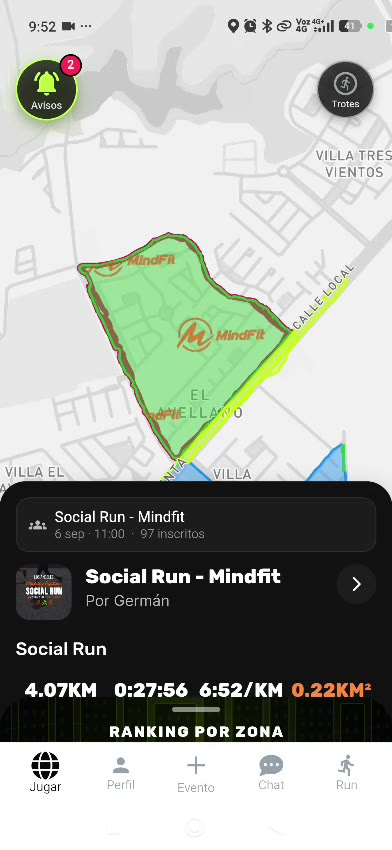
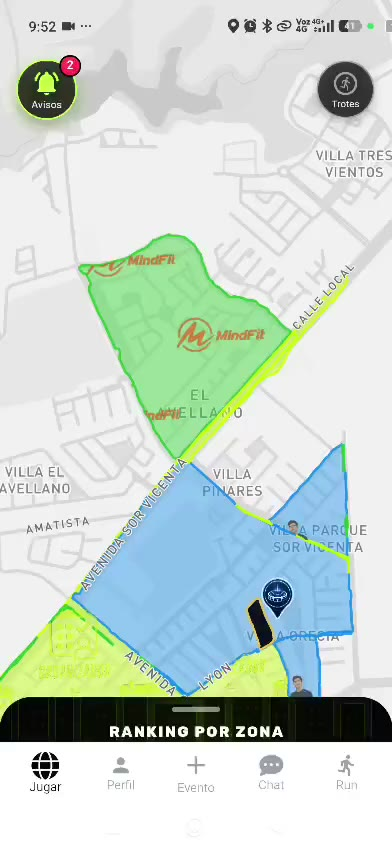
Point to Social Run card when it appears in the scroll video

diff --git a/organizadores/index.html b/organizadores/index.html
@@ -15,7 +15,7 @@
   <meta property="og:url" content="https://kipzone.run/organizadores/">
   <meta property="og:image" content="https://kipzone.run/organizadores/assets/social-run-santiago.jpg">
   <link rel="canonical" href="https://kipzone.run/organizadores/">
-  <link rel="stylesheet" href="style.css?v=20261009-social-run-video">
+  <link rel="stylesheet" href="style.css?v=20261009-social-run-arrow">
   <style id="organizer-heading-sizes">
     .hero .hero-copy h1{font-size:clamp(3rem,5.8vw,5.8rem);line-height:.94}
     .priority-events h2{max-width:1050px;font-size:clamp(2.1rem,4vw,4rem);line-height:.98}
@@ -134,12 +134,15 @@
         </div>
         <div class="event-story-device">
           <div class="story-iphone" aria-label="Demostración de KipZone dentro de un iPhone">
+            <svg class="event-story-card-arrow" viewBox="0 0 240 110" fill="none" aria-hidden="true" focusable="false">
+              <path d="M8 12C68 80 137 113 222 43M186 44L222 43L218 79" />
+            </svg>
             <span class="story-iphone-button story-iphone-action" aria-hidden="true"></span>
             <span class="story-iphone-button story-iphone-volume-up" aria-hidden="true"></span>
             <span class="story-iphone-button story-iphone-volume-down" aria-hidden="true"></span>
             <span class="story-iphone-button story-iphone-power" aria-hidden="true"></span>
             <div class="story-iphone-screen">
-              <video class="event-story-video" muted playsinline webkit-playsinline preload="metadata" poster="assets/social-run-territory-poster.jpg" aria-label="Territorio del Social Run MindFit y tarjeta con la información del evento">
+              <video class="event-story-video" muted playsinline webkit-playsinline preload="metadata" poster="assets/social-run-territory-poster.jpg?v=20261009-social-run-arrow" aria-label="Territorio del Social Run MindFit y tarjeta con la información del evento">
                 <source src="assets/social-run-territory.mp4" type="video/mp4">
                 Tu navegador no permite reproducir este video.
               </video>
@@ -228,7 +231,7 @@
   <footer><a class="brand" href="#inicio"><img src="../assets/logo.png" alt="KipZone"></a><div><a href="https://kipzone.run/">Inicio</a><a href="https://kipzone.run/privacy/">Privacidad</a><a href="https://kipzone.run/terms/">Términos</a><a href="https://www.instagram.com/kipzone.run?igsh=MXEydTdmaW8zeGFmaQ==" target="_blank" rel="noreferrer">Instagram</a><a class="footer-link" href="https://wa.me/56936256916?text=Hola%2C%20organizo%20social%20runs%20y%20quiero%20crear%20mi%20evento%20en%20KipZone." target="_blank" rel="noreferrer">WhatsApp</a></div></footer>
   <a class="floating-wa" aria-label="Escribir por WhatsApp" href="https://wa.me/56936256916?text=Hola%2C%20organizo%20social%20runs%20y%20quiero%20crear%20mi%20evento%20en%20KipZone." target="_blank" rel="noreferrer"><svg viewBox="0 0 32 32" aria-hidden="true"><path fill="currentColor" d="M16.04 3C8.86 3 3.02 8.78 3.02 15.9c0 2.27.6 4.49 1.73 6.43L3 28.73l6.58-1.7a13.1 13.1 0 0 0 6.45 1.66h.01c7.17 0 13.02-5.79 13.02-12.9C29.06 8.78 23.22 3 16.04 3Zm0 23.52h-.01a10.9 10.9 0 0 1-5.56-1.51l-.4-.24-3.9 1.01 1.04-3.77-.26-.4a10.7 10.7 0 0 1-1.67-5.72c0-5.94 4.83-10.73 10.77-10.73s10.76 4.8 10.76 10.73c0 5.91-4.83 10.73-10.77 10.73Zm5.9-8.04c-.32-.16-1.91-.94-2.2-1.05-.3-.11-.51-.16-.73.16-.22.32-.84 1.05-1.03 1.27-.19.21-.38.24-.7.08-.33-.16-1.37-.5-2.61-1.61a9.8 9.8 0 0 1-1.8-2.23c-.19-.32-.02-.5.14-.66.15-.14.32-.38.49-.56.16-.19.21-.32.32-.54.11-.21.05-.4-.03-.56-.08-.16-.73-1.75-1-2.4-.26-.63-.53-.55-.73-.56h-.62c-.21 0-.56.08-.86.4-.29.32-1.13 1.1-1.13 2.69s1.16 3.12 1.32 3.34c.16.21 2.28 3.46 5.52 4.85.77.33 1.37.53 1.84.68.77.24 1.48.21 2.03.13.62-.09 1.91-.78 2.18-1.53.27-.75.27-1.4.19-1.53-.08-.14-.29-.22-.62-.38Z"/></svg></a>
 
-  <script src="script.js?v=20261009-social-run-video" defer></script>
+  <script src="script.js?v=20261009-social-run-arrow" defer></script>
   <script src="firebase-events.js?v=20260818-mobile-events" type="module"></script>
 </body>
 </html>

diff --git a/organizadores/style.css b/organizadores/style.css
@@ -167,6 +167,10 @@ body.modal-open{overflow:hidden}.attendee-modal[hidden]{display:none}.attendee-m
 .event-story-progress i{display:block;width:100%;height:100%;background:var(--lime);transform:scaleX(var(--story-progress));transform-origin:left}
 .event-story-caption{margin:0;color:#9ba5a0;font-size:.72rem;text-align:center}
 .event-story-error{margin:0;color:#ffb4a4;font-size:.8rem;text-align:center}
+.event-story-card-arrow{position:absolute;z-index:4;right:calc(100% - 9px);top:63%;width:clamp(70px,18vw,230px);height:auto;overflow:visible;pointer-events:none;opacity:0;transform:translate(-10px,8px);transition:opacity .18s ease,transform .18s ease;color:var(--lime);filter:drop-shadow(0 0 10px rgba(143,227,29,.3))}
+.event-story-card-arrow path{stroke:currentColor;stroke-width:5;stroke-linecap:round;stroke-linejoin:round}
+.event-story-card-visible .event-story-card-arrow{opacity:1;transform:translate(0,0)}
+@media(max-width:560px){.event-story-card-arrow{width:min(90px,calc((100vw - 240px)/2 - 12px));right:calc(100% - 6px);top:64%}}
 @media(max-width:900px){.event-story-sticky{top:68px;height:calc(100svh - 68px);gap:28px}.event-story-copy h2{font-size:clamp(2.7rem,5.8vw,4.2rem)}}
 @media(max-width:560px){.event-story-sticky{grid-template-columns:1fr;grid-template-rows:auto minmax(0,1fr);gap:14px;width:calc(100% - 28px);padding:16px 0}.event-story-copy{text-align:center}.event-story-copy .eyebrow{margin-bottom:8px;font-size:.62rem}.event-story-copy h2{font-size:clamp(1.9rem,8vw,2.7rem)}.event-story-copy>p:not(.eyebrow){margin:10px auto 0;font-size:.86rem;line-height:1.4}.event-story-hint{margin-top:8px;font-size:.66rem}.event-story-device{gap:10px}.story-iphone{width:min(240px,calc((100svh - 310px)*.477));padding:6px}.event-story-caption{font-size:.62rem}.story-iphone-status{font-size:8px}}
 @media(max-height:520px) and (min-width:561px){.event-story-copy h2{font-size:2.4rem}.event-story-copy>p:not(.eyebrow){margin-top:12px;font-size:.9rem}.event-story-hint{margin-top:14px}.event-story-sticky{padding:12px 0}.event-story-device{gap:8px}.story-iphone{width:calc((100svh - 145px)*.477)}}

diff --git a/organizadores/script.js b/organizadores/script.js
@@ -125,6 +125,14 @@ const eventStory = document.querySelector('.event-story');
 const eventStoryVideo = eventStory?.querySelector('video');
 let eventStoryFrame = 0;
 let eventStoryTarget = 0;
+// The card starts rising at 2.85 s in this recording. Follow the displayed
+// frame, so the pointer also disappears when scrolling back before the reveal.
+const syncEventStoryCard = () => {
+  eventStory?.classList.toggle('event-story-card-visible', Boolean(
+    eventStoryVideo && !eventStoryVideo.error &&
+    eventStoryVideo.readyState >= 2 && eventStoryVideo.currentTime >= 2.85
+  ));
+};
 const seekEventStory = () => {
   if (!eventStoryVideo || eventStoryVideo.seeking ||
       !Number.isFinite(eventStoryVideo.duration) || eventStoryVideo.readyState < 1) return;
@@ -154,10 +162,14 @@ const requestEventStorySync = () => {
 if (eventStoryVideo) {
   eventStoryVideo.addEventListener('loadedmetadata', requestEventStorySync);
   eventStoryVideo.addEventListener('loadeddata', requestEventStorySync);
+  eventStoryVideo.addEventListener('loadeddata', syncEventStoryCard);
+  eventStoryVideo.addEventListener('timeupdate', syncEventStoryCard);
   eventStoryVideo.addEventListener('seeked', () => {
+    syncEventStoryCard();
     if (!reducedMotion.matches) seekEventStory();
   });
   eventStoryVideo.addEventListener('error', () => {
+    syncEventStoryCard();
     eventStory.querySelector('.event-story-error').hidden = false;
   });
   const storyObserver = new IntersectionObserver((entries) => {
